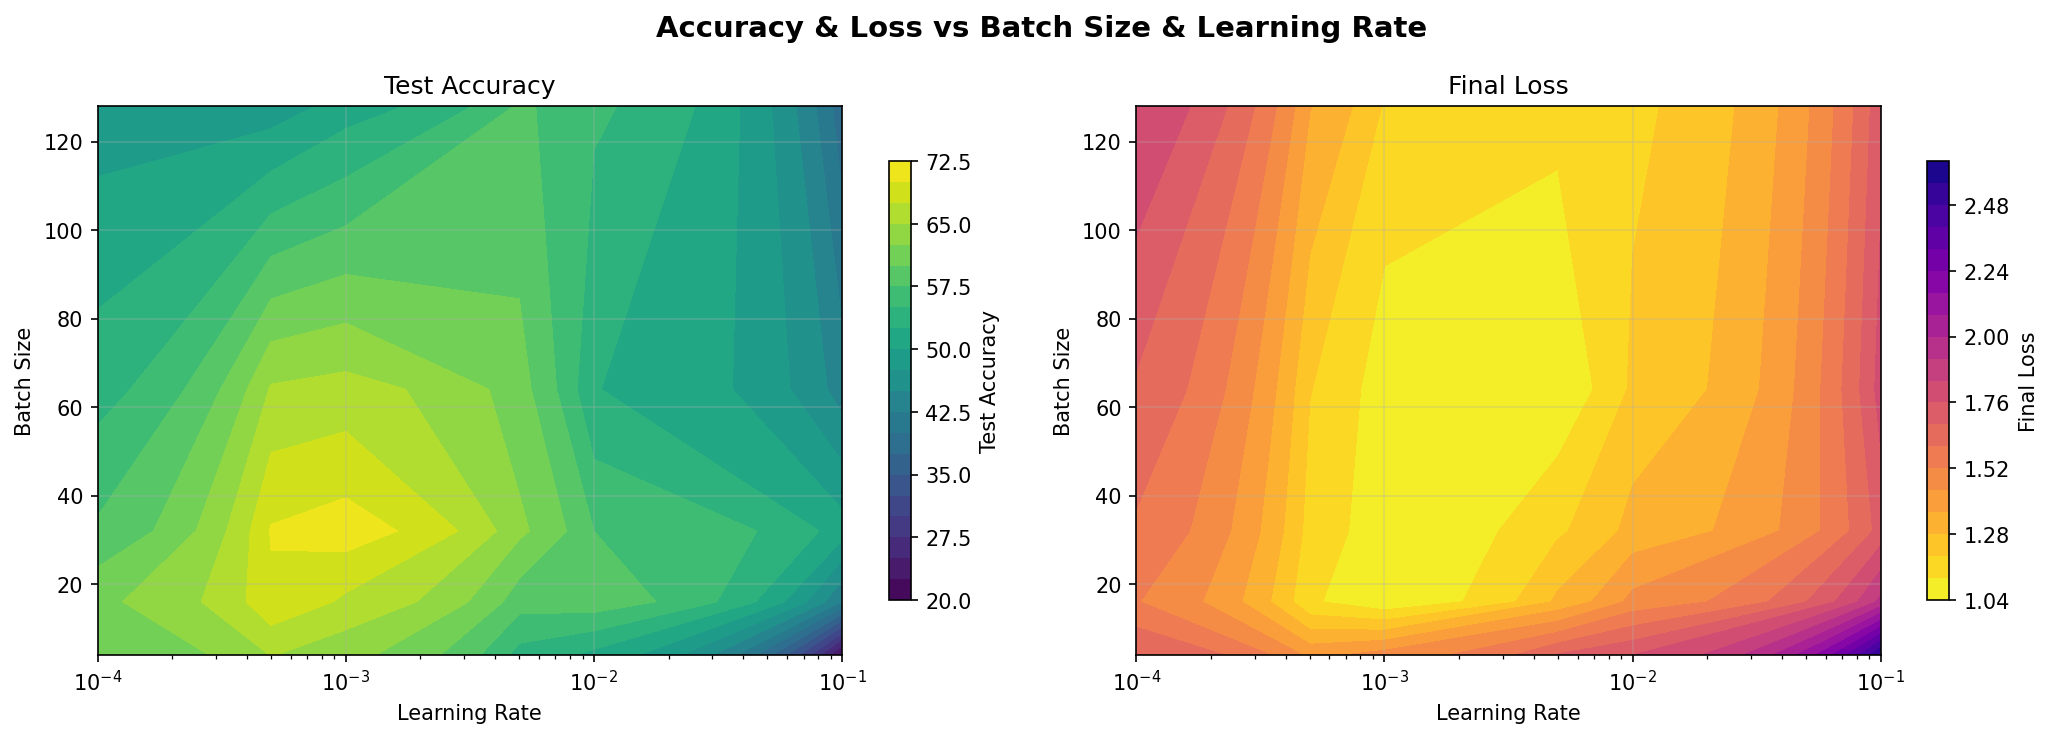
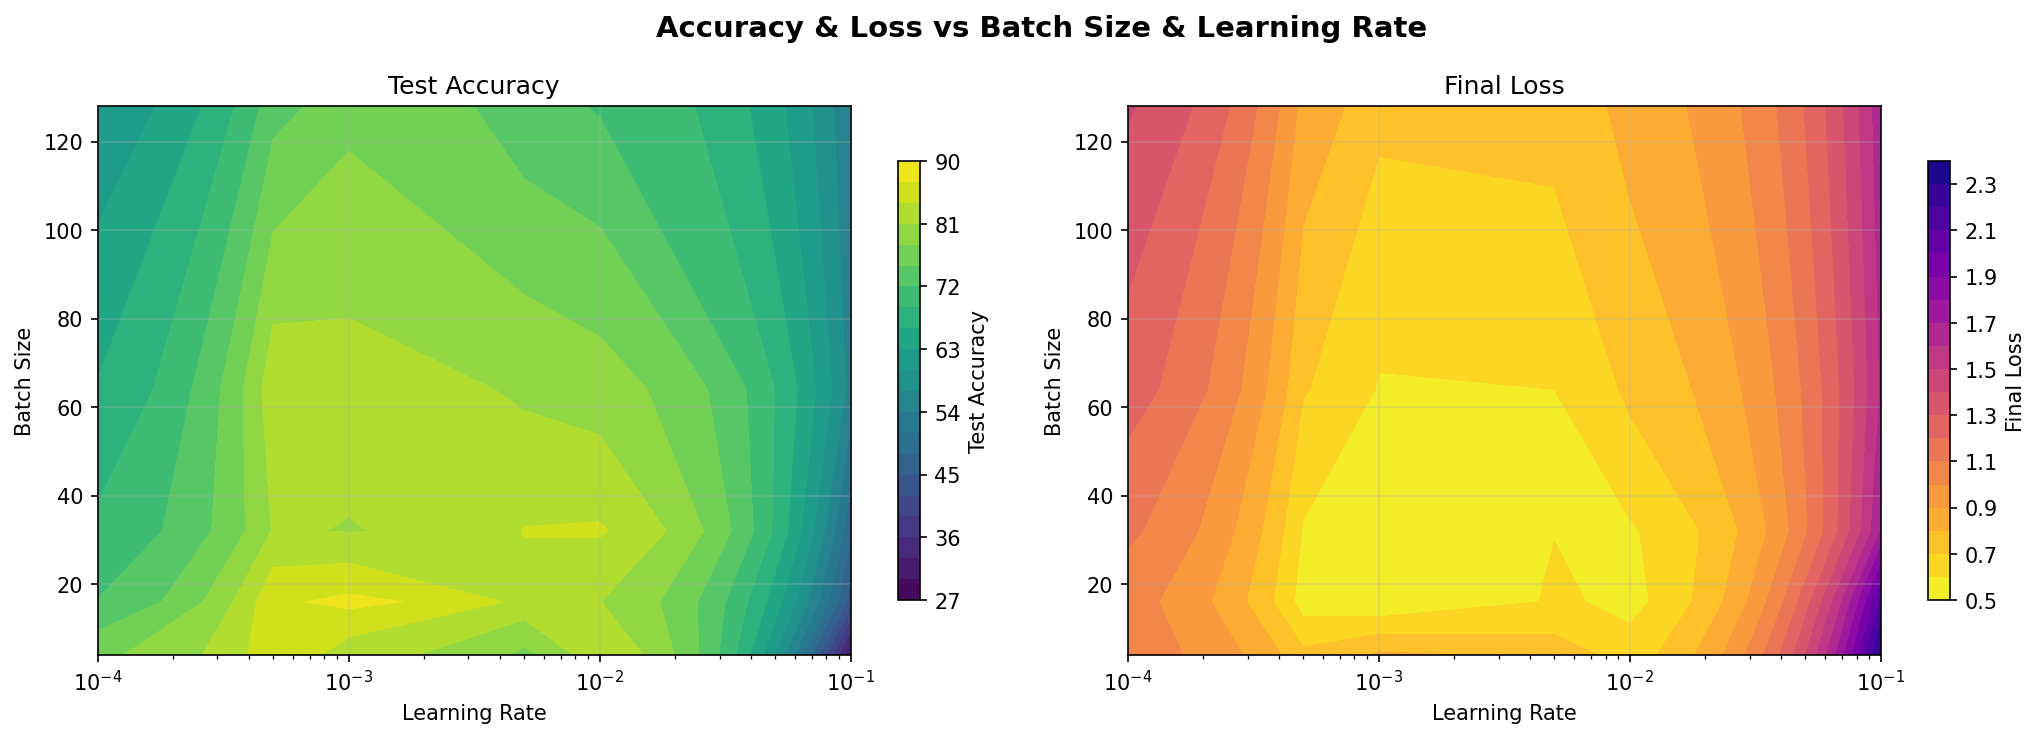
minor changes

diff --git a/main.py b/main.py
@@ -1,4 +1,5 @@
 import torch
+from torch.utils.data import DataLoader
 import sys
 from pathlib import Path
 
@@ -11,28 +12,23 @@ from model import SimpleCNN, BetterCNN
 from training import train,validate
 from hyperparameter_optimisation import hyp_optimisation
 
+LEARNING_RATE = 0.001
+BATCH_SIZE = 32
+EPOCHS = 50
 
 def main():
     device = torch.device('cuda' if torch.cuda.is_available() else 'cpu')
     print(f"Device: {device}")
     
-    # train_loader, test_loader = data_trafic_signs(16,16)    
+    train_dataset, test_dataset = data_trafic_signs()
+    test_loader = DataLoader(test_dataset, batch_size=16)
+    train_loader = DataLoader(train_dataset, batch_size=BATCH_SIZE, shuffle=True)
 
     model = BetterCNN().to(device)
-
-    lr_tab = [0.1, 0.01, 0.005, 0.001, 0.0005, 0.0001]
-    bs_tab = [4, 16, 32, 64, 128]
-
-    # lr_tab = [0.01, 0.005, 0.001]
-    # bs_tab = [16, 32]
-
-    hyp_optimisation(lr_tab, bs_tab)
-
-
     
-    # train(model=model, lr=0.001, train_loader=train_loader, bs=16, epochs = 10)
+    train(model=model, lr = LEARNING_RATE, train_loader=train_loader, epochs = EPOCHS)
 
-    # validate(model, test_loader)
+    validate(model, test_loader)
 
 
 main()

diff --git a/hyperparameter_optimisation.py b/hyperparameter_optimisation.py
@@ -64,7 +64,7 @@ def hyp_optimisation(lr_tab, bs_tab):
 
     for lr in lr_tab:
         for bs in bs_tab:
-            train_loader = DataLoader(test_dataset, batch_size=bs, shuffle=True)
+            train_loader = DataLoader(train_dataset, batch_size=bs, shuffle=True)
             torch.manual_seed(42)
             model = BetterCNN().to(device)
 